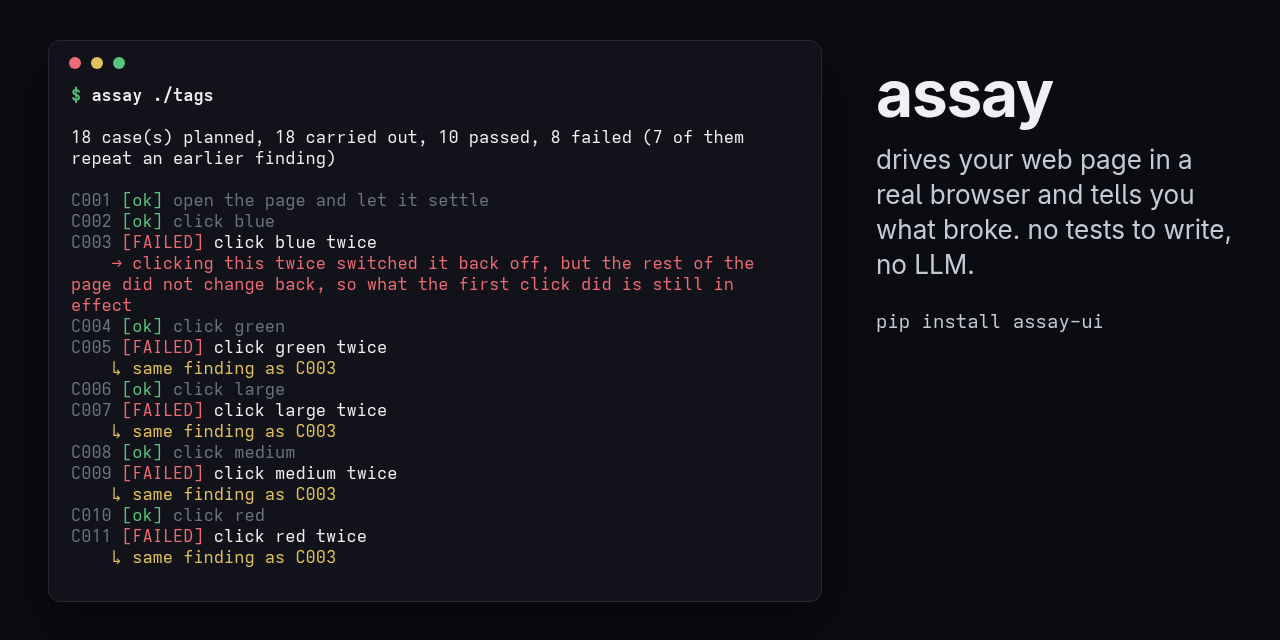
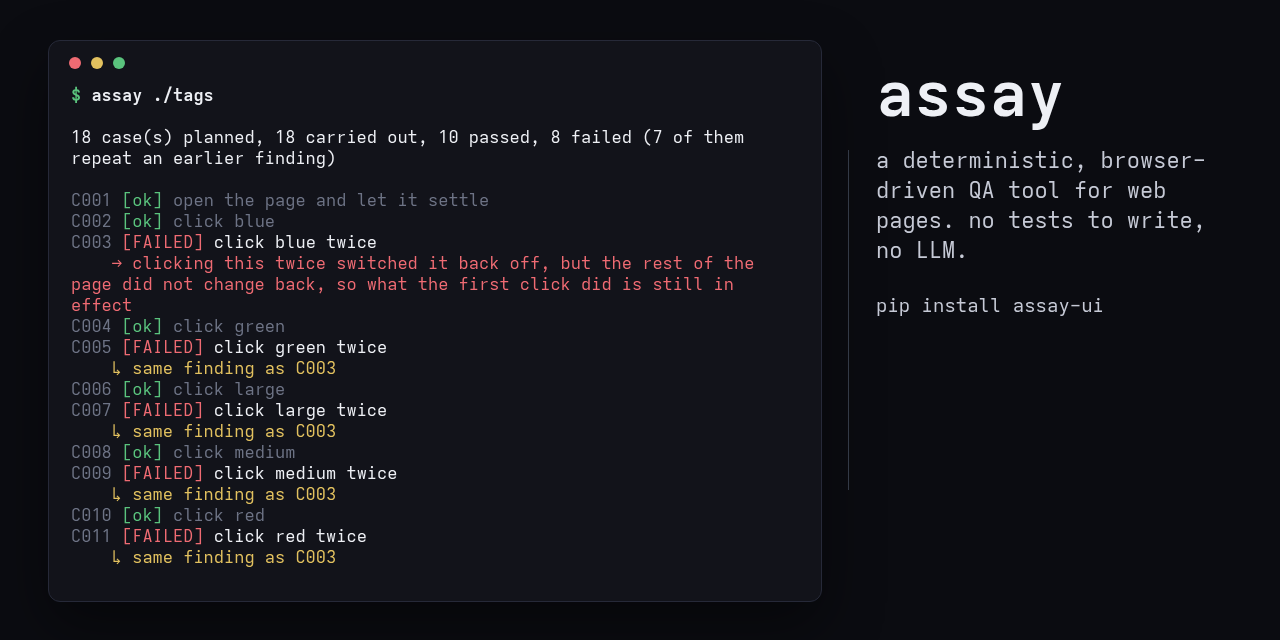
docs: retire the old tagline for "a deterministic, browser-driven QA tool"
The headline, the pyproject description, the CLI help and the social card all
adopt the new tagline, A deterministic, browser-driven QA tool for web pages,
no tests to write and no LLM. The badge row adds a listed-in awesome-testing
flex and both flex badges take the teal accent. The social card's wordmark and
tagline are now monospace to match the terminal, with a divider between the
halves.

Changed region(s): [[0.6875, 0.125, 0.9688, 0.4375], [0.6875, 0.4688, 0.875, 0.5312]]

diff --git a/docs/social.py b/docs/social.py
@@ -58,18 +58,20 @@ def page(lines: list[str]) -> str:
   pre{{margin:16px 0 0;padding:0 22px;font-family:{MONO};font-size:17px;
        line-height:21px;color:{TEXT};white-space:pre-wrap;overflow-wrap:anywhere;
        max-height:483px;overflow:hidden}}
-  .side{{position:absolute;left:876px;right:48px;top:60px;font-family:{SANS};color:{BRIGHT}}}
-  .side h1{{margin:0;font-size:64px;line-height:68px;font-weight:700;letter-spacing:-.02em}}
-  .side p{{margin:14px 0 0;font-size:26px;line-height:35px;color:{TEXT}}}
+  .rule{{position:absolute;left:848px;top:150px;height:340px;width:1px;background:#333a47}}
+  .side{{position:absolute;left:876px;right:48px;top:60px;font-family:{MONO};color:{BRIGHT}}}
+  .side h1{{margin:0;font-size:64px;line-height:68px;font-weight:700;letter-spacing:-.01em}}
+  .side p{{margin:18px 0 0;font-size:22px;line-height:30px;color:{TEXT}}}
   .side code{{display:block;margin-top:28px;font-family:{MONO};font-size:19px;color:{TEXT}}}
 </style>
 <div class="term">
   <div class="dots"><i style="background:{RED}"></i><i style="background:{AMBER}"></i><i style="background:{GREEN}"></i></div>
 <pre>{rows}</pre>
 </div>
+<div class="rule"></div>
 <div class="side">
   <h1>assay</h1>
-  <p>drives your web page in a real browser and tells you what broke. no tests to write, no LLM.</p>
+  <p>a deterministic, browser-driven QA tool for web pages. no tests to write, no LLM.</p>
   <code>pip install assay-ui</code>
 </div>
 """

diff --git a/src/assay/cli.py b/src/assay/cli.py
@@ -231,8 +231,8 @@ def main(argv: Optional[Sequence[str]] = None) -> int:
     """Check one folder and say what happened. Non-zero if anything failed."""
     ap = argparse.ArgumentParser(
         prog="assay",
-        description="Drives your web page in a real browser and tells you "
-                    "what broke. No tests to write, no LLM.")
+        description="A deterministic, browser-driven QA tool for web pages. "
+                    "No tests to write, no LLM.")
     ap.add_argument("folder",
                     help="the folder holding the program, or the page")
     ap.add_argument("-e", "--entry", default="index.html",

diff --git a/README.md b/README.md
@@ -3,7 +3,8 @@
 <p align="center">
   <a href="https://github.com/awss1i/assay/blob/main/pyproject.toml"><img src="https://img.shields.io/badge/python-3.10%2B-blue" alt="python"></a>
   <a href="https://github.com/awss1i/assay/blob/main/LICENSE"><img src="https://img.shields.io/badge/licence-MIT-blue" alt="licence"></a>
-  <a href="https://github.com/sickn33/agentic-awesome-skills"><img src="https://img.shields.io/badge/listed%20in-agentic--awesome--skills-blue" alt="listed in agentic-awesome-skills"></a>
+  <a href="https://github.com/sickn33/agentic-awesome-skills"><img src="https://img.shields.io/badge/listed%20in-agentic--awesome--skills-5bb5ac" alt="listed in agentic-awesome-skills"></a>
+  <a href="https://github.com/TheJambo/awesome-testing"><img src="https://img.shields.io/badge/listed%20in-awesome--testing-5bb5ac" alt="listed in awesome-testing"></a>
 </p>
 
 <p align="center">
@@ -12,7 +13,7 @@
 
 ---
 
-<p align="center"><strong>Drives your web page in a real browser and tells you what broke. No tests to write, no LLM.</strong></p>
+<p align="center"><strong>A deterministic, browser-driven QA tool for web pages. No tests to write, no LLM.</strong></p>
 
 <p align="center"><code>pip install assay-ui</code></p>
 
